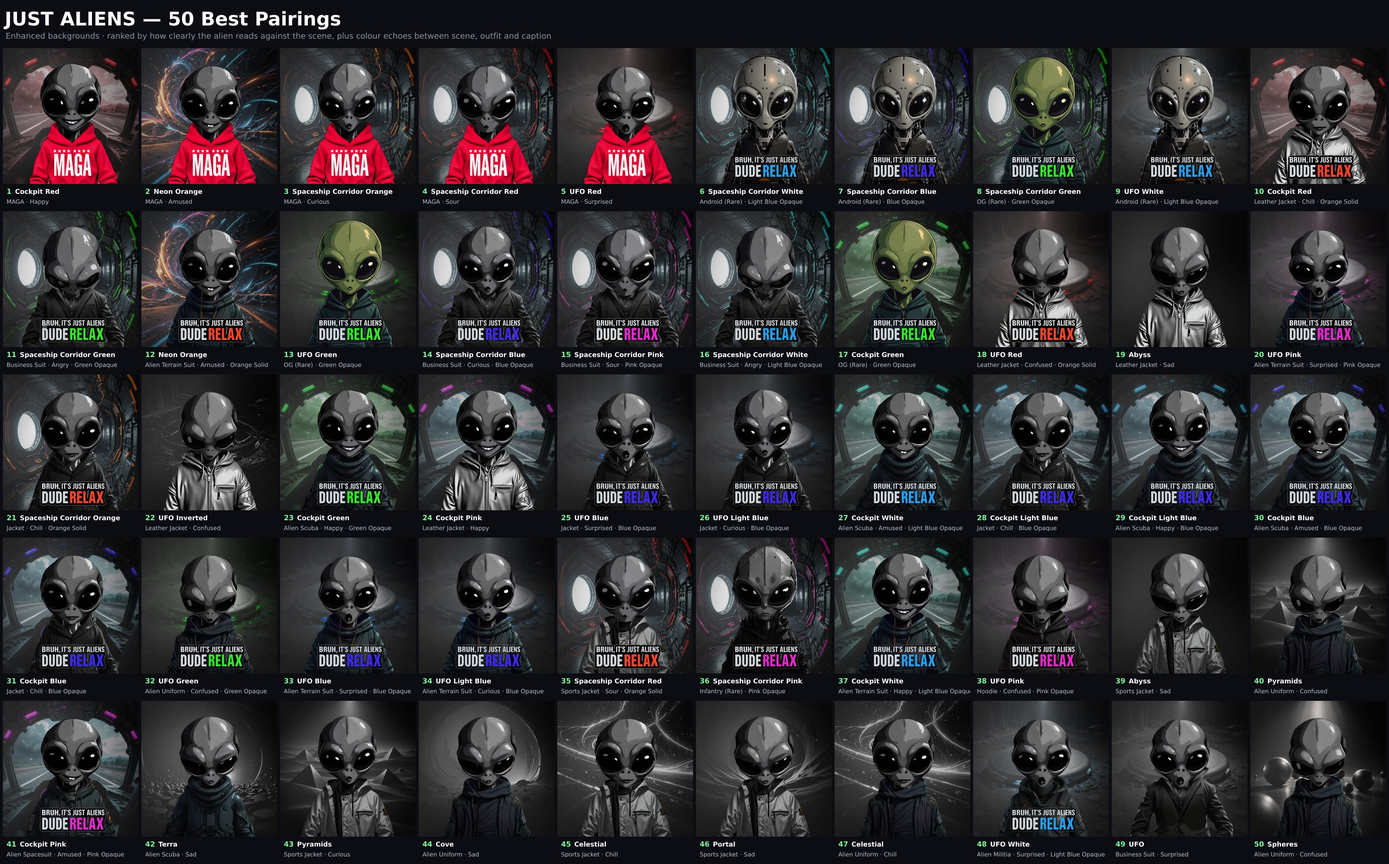
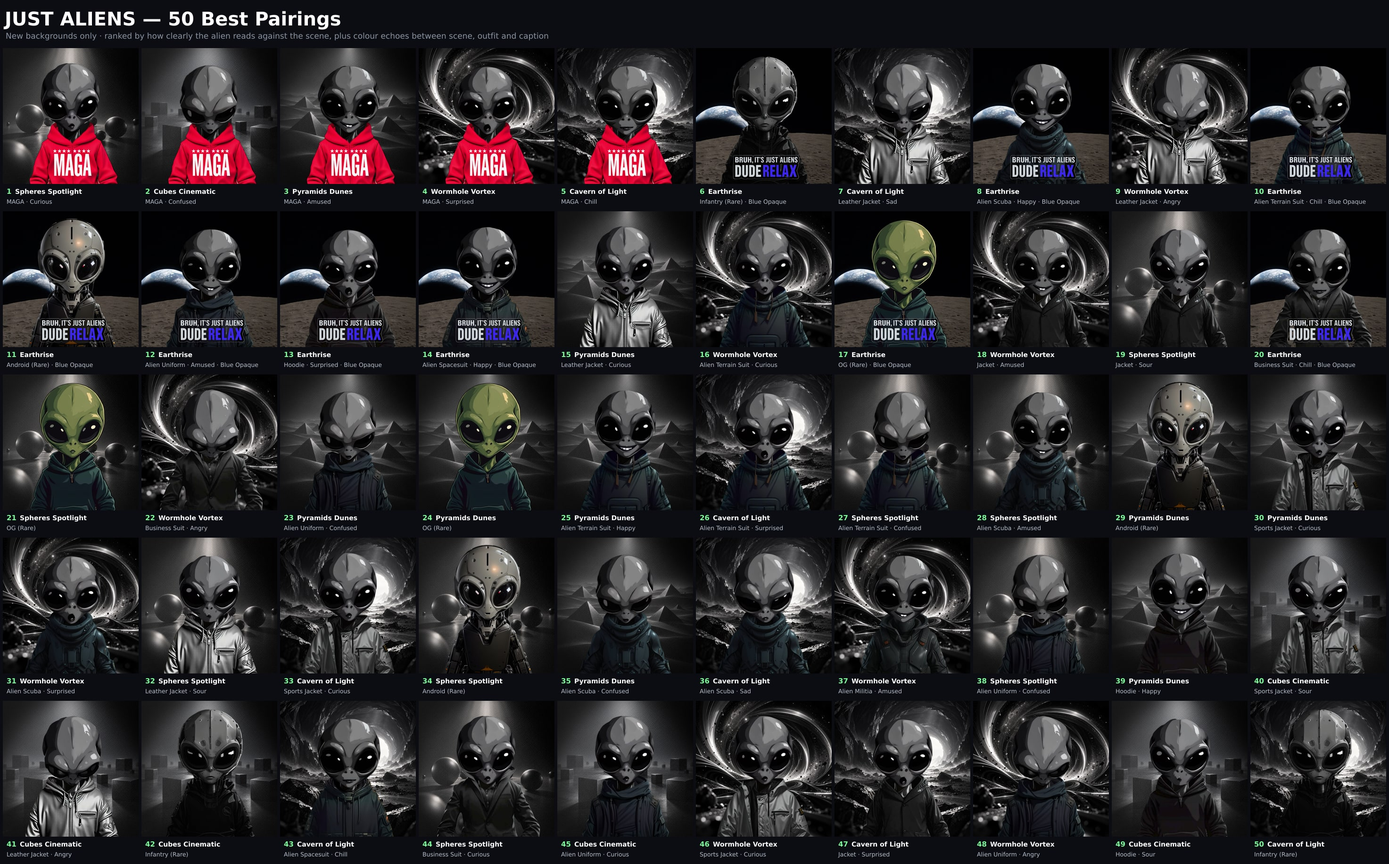
Use only the new backgrounds for the best pairings sheet
The sheet now draws from the six new backgrounds instead of the original
29 scenes and their halftone copies: Spheres Spotlight, Cubes Cinematic,
Pyramids Dunes (goats_contest_mattrick 17-19), Wormhole Vortex
(4fd01d63...), Cavern of Light (dd1fca4d...) and Earthrise
(art002e009288...). The portrait and press photos in Assets/ are not
used.

- Earthrise is cropped from the right so Earth sits beside the alien's
  head; its blue is the one colour accent, so its tiles carry a Blue
  caption and the Android gets the colour-echo bonus there
- Up to 9 tiles per scene; expressions rotate within each scene first
- generate_collection.js no longer needs to export ACCENTS

Claude-Session: https://claude.ai/code/session_01SDLUDmPw6iZ6fricfnVEZ6

diff --git a/generate_collection.js b/generate_collection.js
@@ -226,7 +226,7 @@ async function contactSheet(pieces, file) {
 }
 
 // The pairing rules are shared with scripts/best-pairings.cjs.
-module.exports = { LAYERS, ACCENTS, bodyFits, captionsFor };
+module.exports = { LAYERS, bodyFits, captionsFor };
 
 if (require.main === module) (async () => {
   const pieces = plan();
